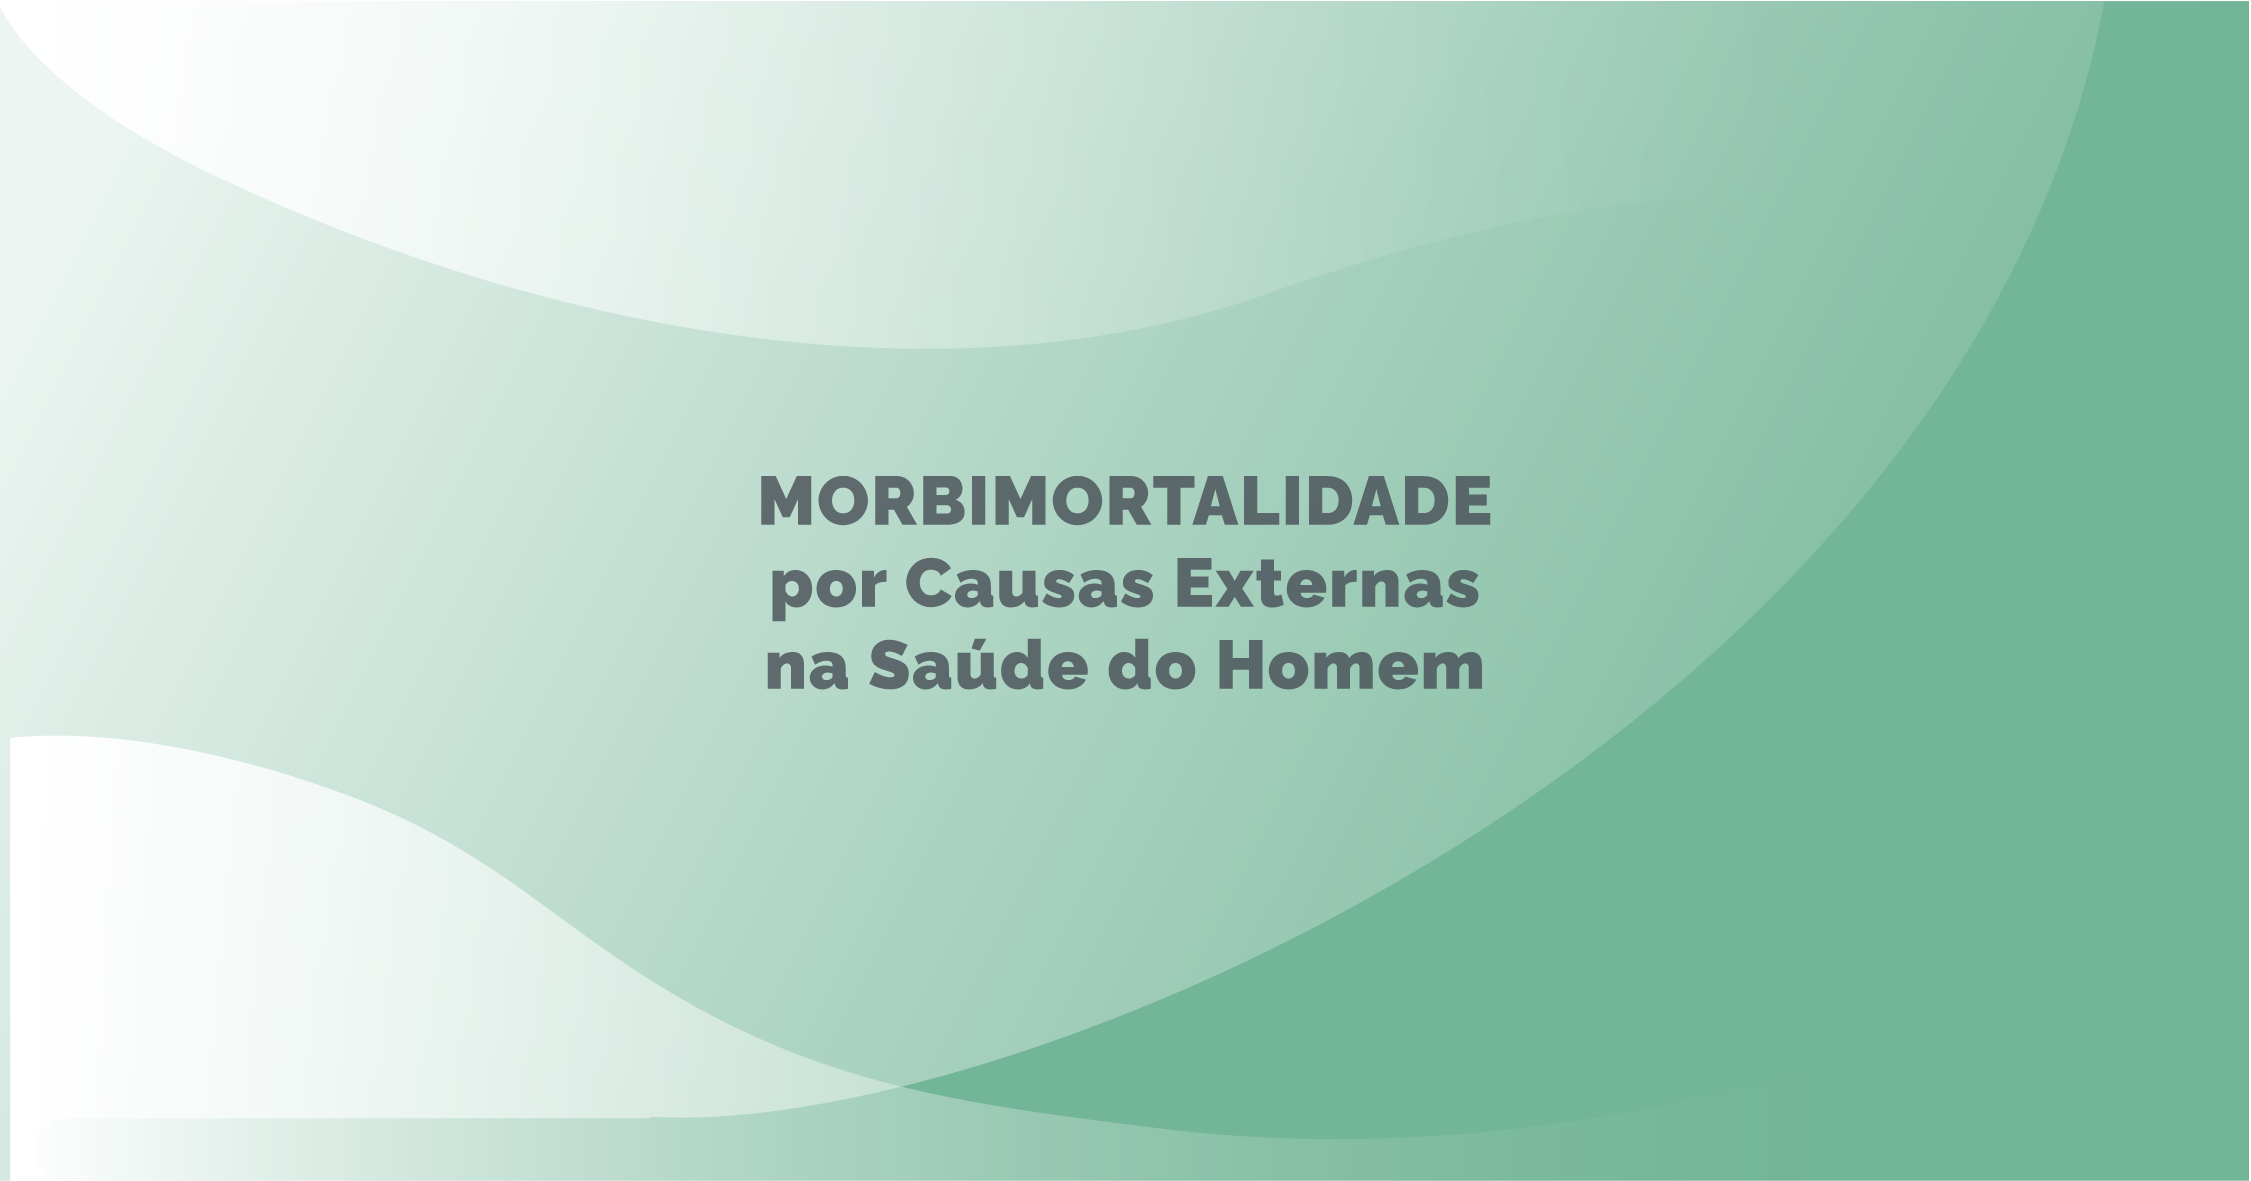
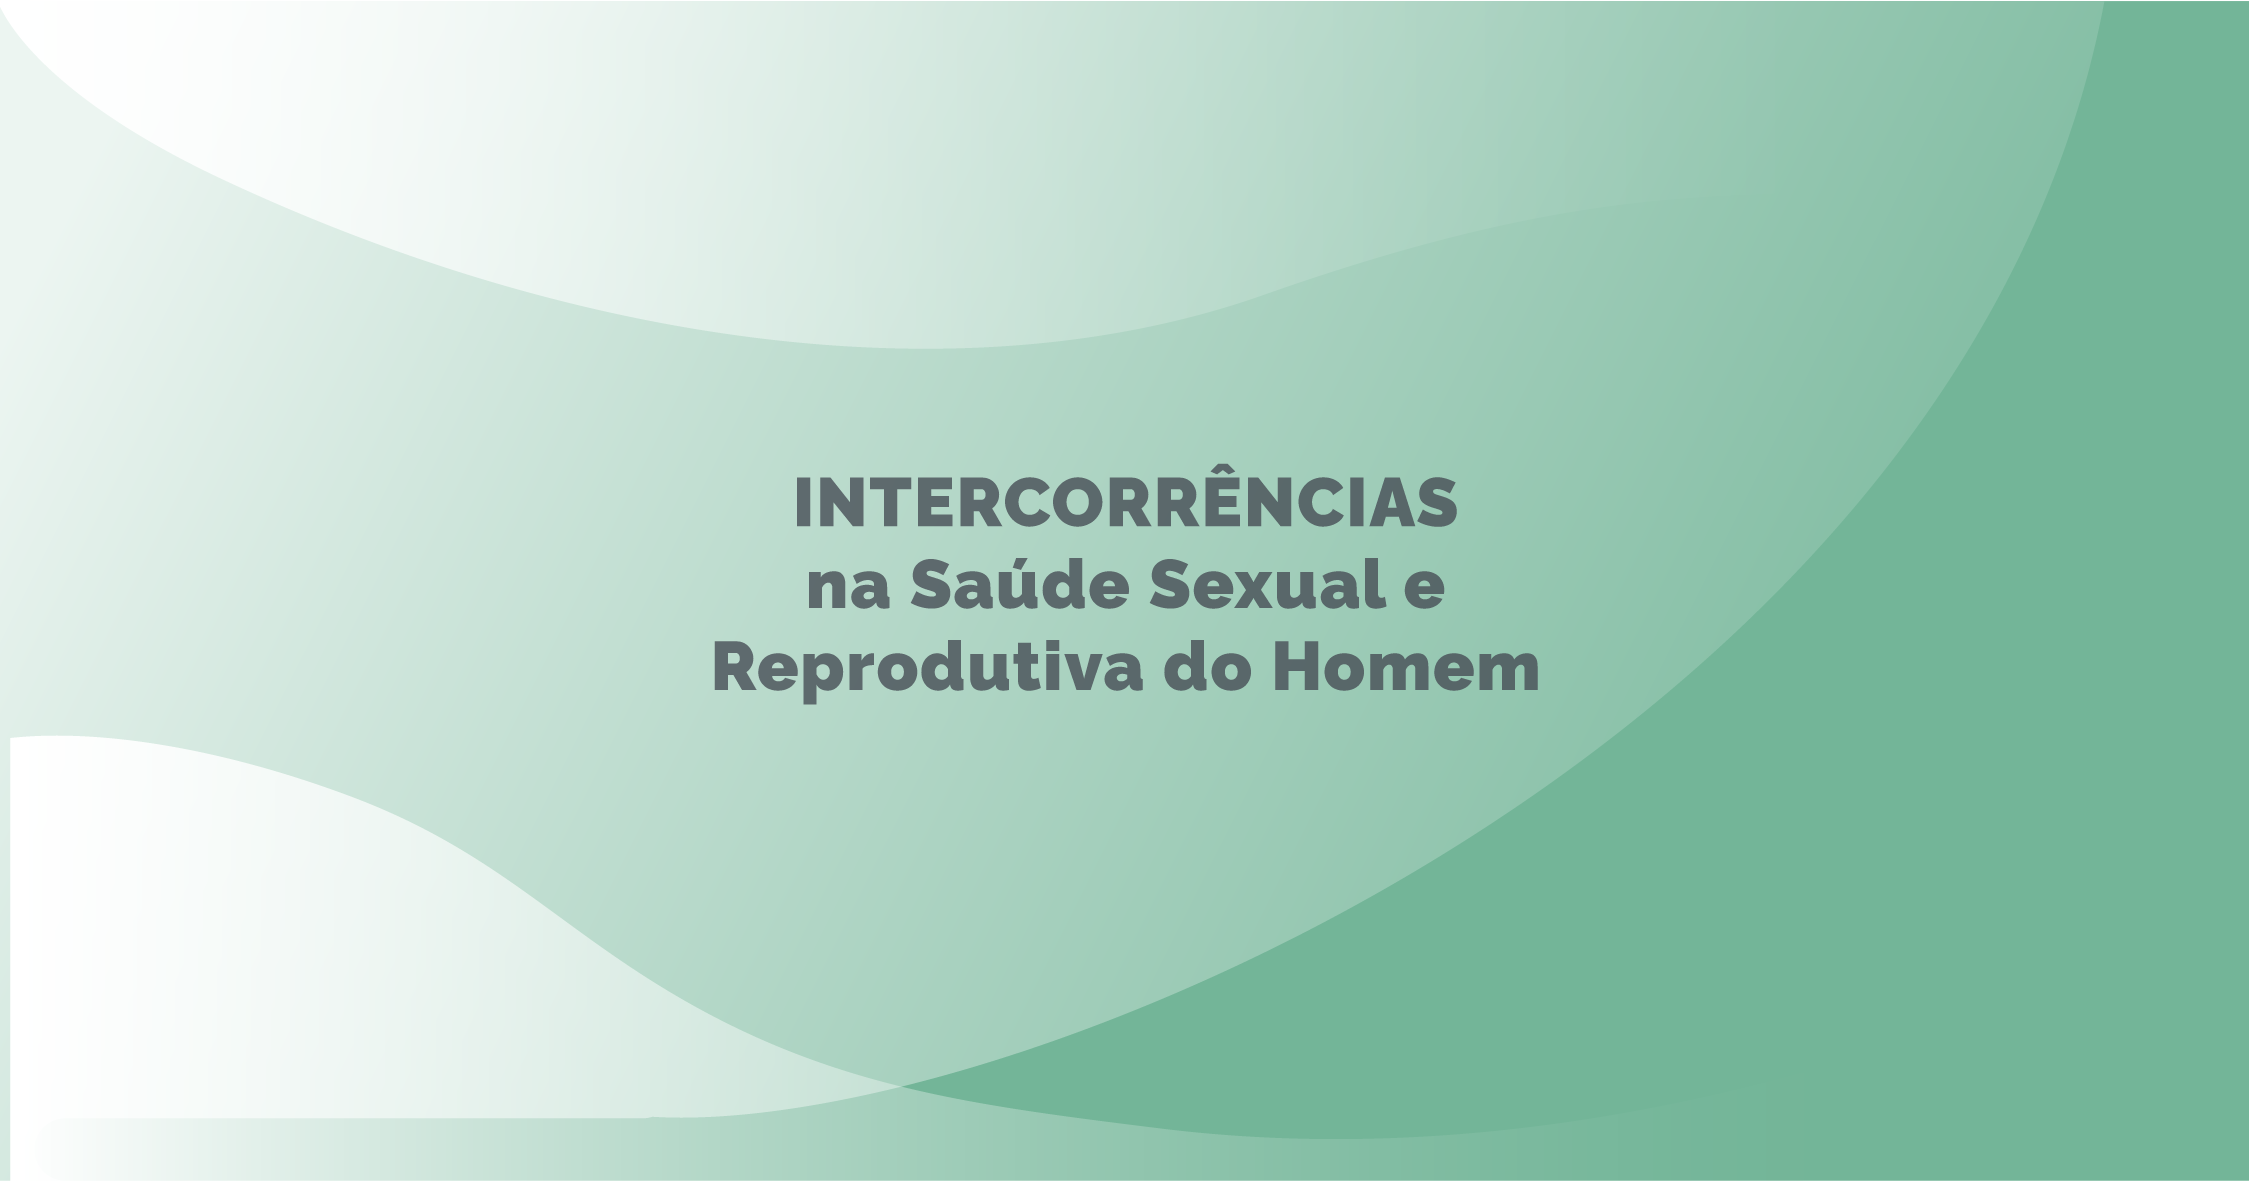
Atualiza capa e adiciona ícone colorido da Tomada de Opinião na trilha

Changed region(s): [[0.311, 0.3963, 0.6841, 0.6097]]

diff --git a/src/tomada-de-opiniao.html b/src/tomada-de-opiniao.html
@@ -109,7 +109,7 @@
       </a>
       <div class="line"></div>
       <a href="tomada-de-opiniao.html">
-        <img src="img/nav/SaudeTrab_tomadaOpiniaoWhiteColor.png" alt="Tomada de opinião">
+        <img src="img/nav/intercorrencias_tomadaOpiniaoColor.png" alt="Tomada de opinião">
       </a>
     </div>
     <button onclick="navigate('next')"><img src="img/nav/buttonFor.png" alt="Avançar"></button>
